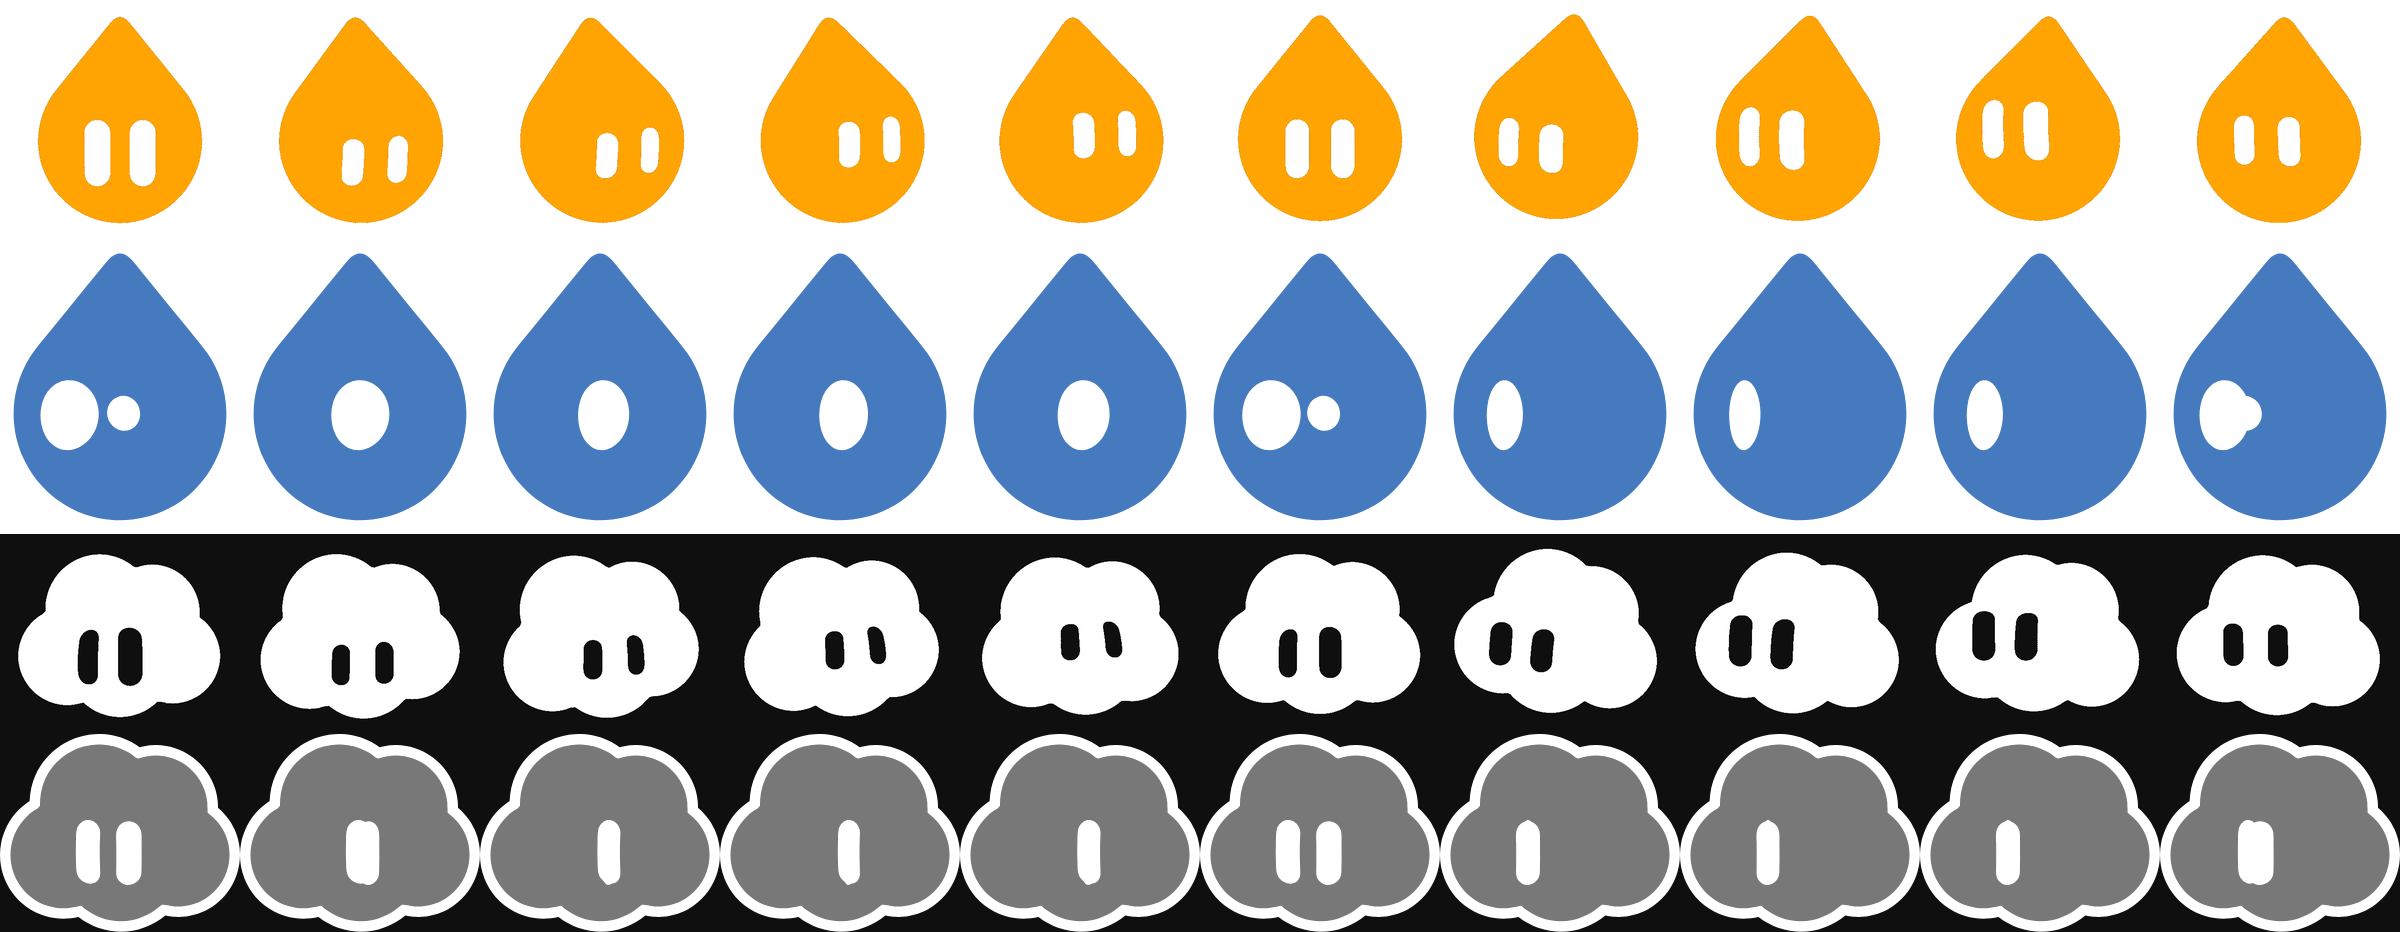
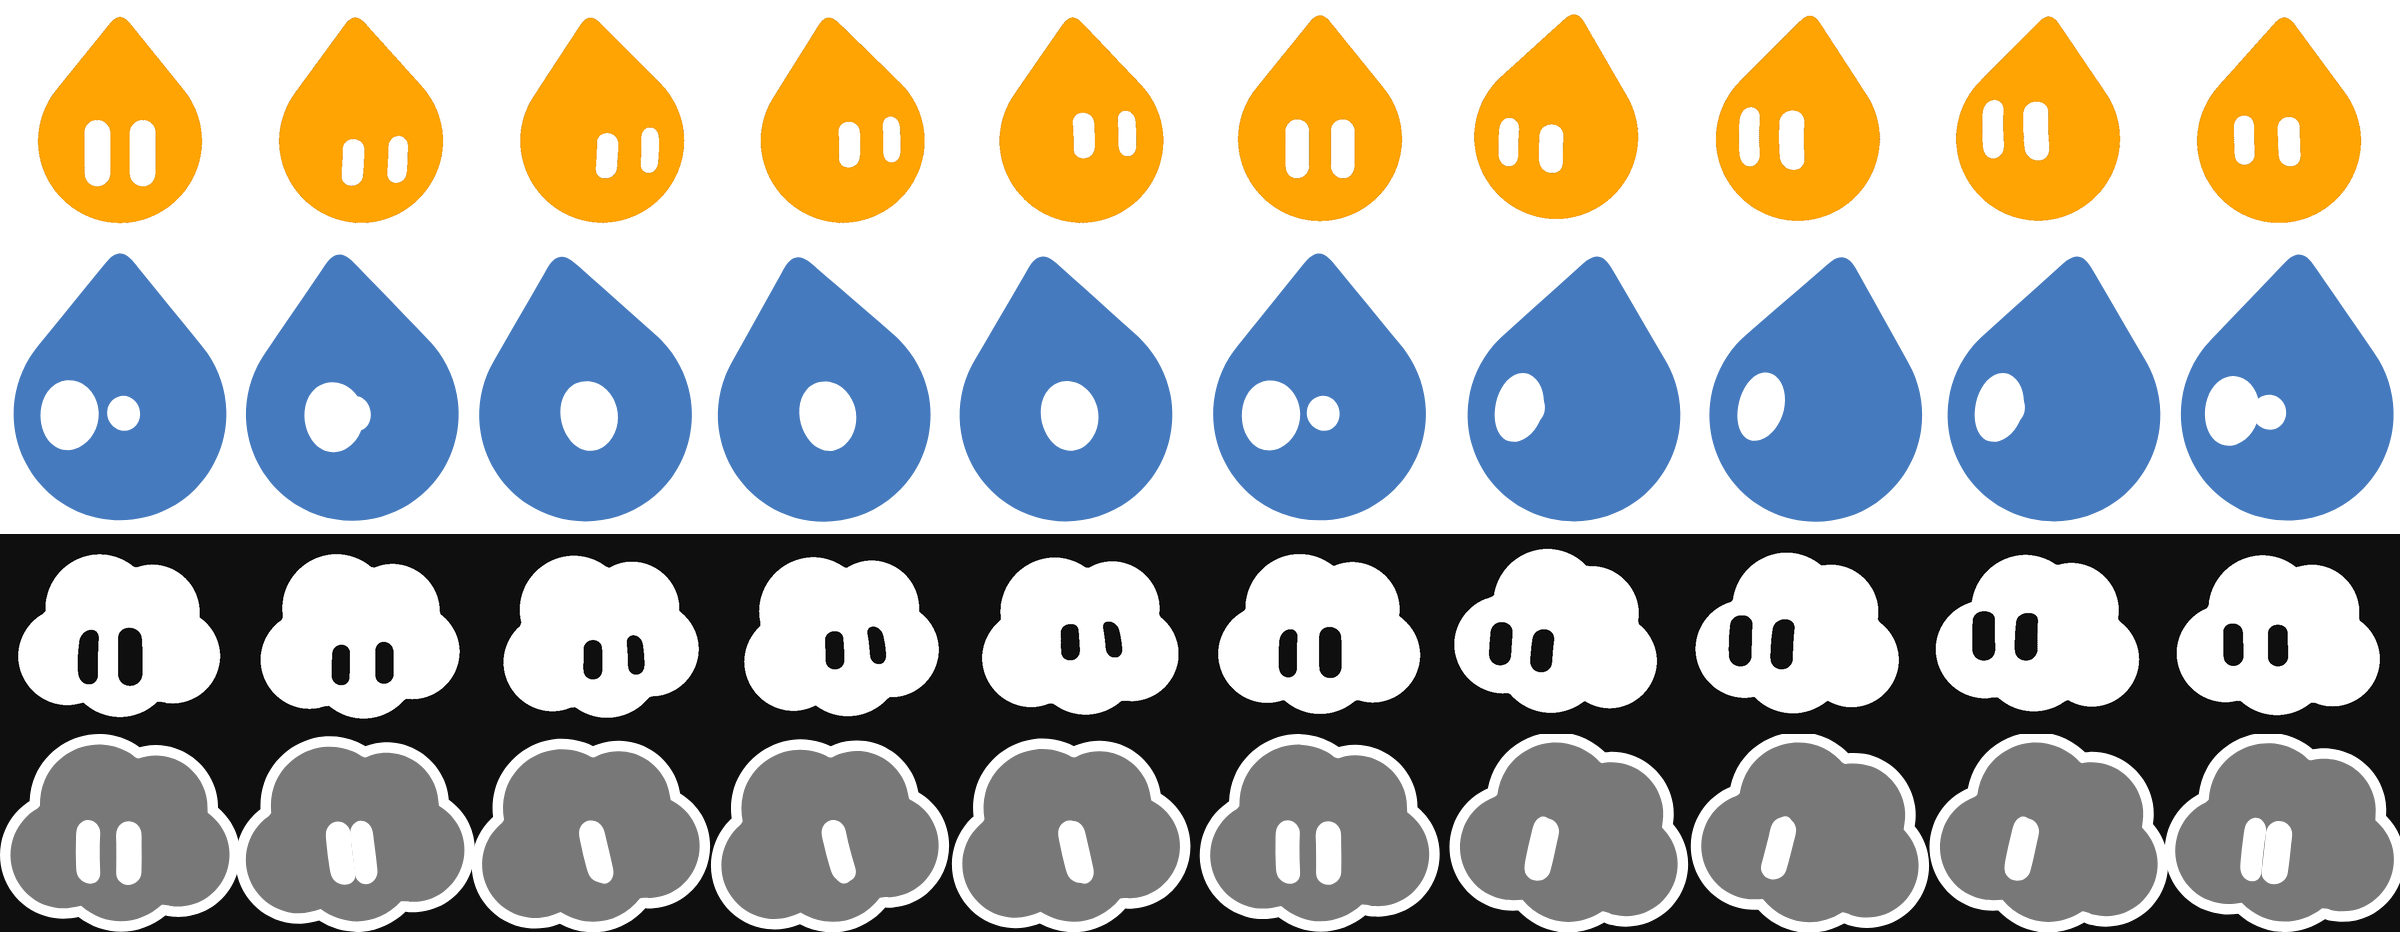
fix: retune look-around — subtle eyes, leaning silhouette
Reference shows a modest head shift: both eyes always visible, ~15% body
slide, slight far-eye narrowing — while the body clearly leans ~10deg and
bobs. Amplitude 0.55 read as turn-away (near eye vanished). Now: yaw
amplitude 0.35, silhouette leans up to ~12deg (yaw*0.5 rad, capped),
slight eye tilt, gentle bob. Turn-away unchanged. Sheets regenerated.

diff --git a/src/ui/TitleScreen.ts b/src/ui/TitleScreen.ts
@@ -152,14 +152,17 @@ export class TitleScreen {
       const pitch = neutral ? 0 : Math.sin(t * 0.83 + b.i) * 0.25;
       const lid = neutral ? 1 : lineupLid(t, b.i);
       const poses = yawEyeTransforms(b.art, yaw);
-      // Subtle body lean + squash tied to the turn.
-      b.body.style.transform = `translateX(${yaw * 3}%) rotate(${-yaw * 4}deg)`;
+      // Silhouette follows the look: ~10° lean (capped) + slight bob, like the
+      // reference strips — matches tickBot's in-game body motion.
+      const leanYaw = Math.max(-0.42, Math.min(0.42, yaw));
+      const bob = Math.sin(t * 1.31 + b.i * 1.7) * 1.2;
+      b.body.style.transform = `translateX(${yaw * 3}%) translateY(${bob}%) rotate(${-leanYaw * 28.6}deg)`;
       b.eyes.forEach((img, ei) => {
         const p = poses[ei]!;
         const dxPct = (p.dx / (b.art.eyes[ei]!.box[2] * (1 + EYE_PAD * 2))) * 100;
         const dyPct = (pitch * -b.art.eyeBox[3] * 0.15) / (b.art.eyes[ei]!.box[3] * (1 + EYE_PAD * 2)) * 100;
         img.style.opacity = p.visible ? '1' : '0';
-        img.style.transform = `translate(-50%,-50%) translate(${dxPct}%, ${dyPct}%) scale(${Math.max(0.02, p.sx)}, ${lid})`;
+        img.style.transform = `translate(-50%,-50%) translate(${dxPct}%, ${dyPct}%) scale(${Math.max(0.02, p.sx)}, ${lid}) rotate(${-yaw * 12.6}deg)`;
       });
     }
   }

diff --git a/src/render/characters.ts b/src/render/characters.ts
@@ -218,14 +218,19 @@ export function tickBot(node: THREE.Object3D, time: number, a: BotAnim = {}): vo
   ud.prevYaw = yaw;
   ud.prevYawT = time;
   if (!a.reducedMotion) {
-    inner.rotation.z = -yaw * 0.07;
+    // Silhouette follows the look: ~10° lean at the look-around extreme,
+    // capped so turn-away stays at a ~12° tilt. Plus a gentle idle bob.
+    const leanYaw = Math.max(-0.42, Math.min(0.42, yaw));
+    inner.rotation.z = -leanYaw * 0.5;
     inner.position.x = yaw * ((ud.leanRange as number | undefined) ?? 0.04);
+    inner.position.y = Math.sin(time * 1.31 + phase * 7) * ((ud.leanRange as number | undefined) ?? 0.04) * 0.35;
     const sq = Math.min(0.03, Math.abs(yawVel) * 0.02);
     sy *= 1 - sq;
     sx *= 1 + sq * 0.6;
   } else {
     inner.rotation.z = 0;
     inner.position.x = 0;
+    inner.position.y = 0;
   }
   inner.scale.set(sx, sy, 1);
 
@@ -284,6 +289,8 @@ export function tickBot(node: THREE.Object3D, time: number, a: BotAnim = {}): vo
       0.03
     );
     m.scale.set(Math.max(0.02, lidX * sxYaw), Math.max(0.08, lid), 1);
+    // Slight eye tilt following the head turn (dropped under reduced motion).
+    m.rotation.z = a.reducedMotion ? 0 : -yaw * 0.22;
   }
 }
 

diff --git a/tools/motion-sheet.html b/tools/motion-sheet.html
@@ -30,6 +30,11 @@
         ctx.save();
         ctx.translate(i * R, 0);
         ctx.scale(k, k);
+        // Body lean, pivoting near the bottom like tickBot's inner.rotation.z.
+        const leanYaw = Math.max(-0.42, Math.min(0.42, yaw));
+        ctx.translate(art.vbW / 2, art.vbH * 0.9);
+        ctx.rotate(-leanYaw * 0.5);
+        ctx.translate(-art.vbW / 2, -art.vbH * 0.9);
         paintBodyLayer(ctx, art);
         // Eyes: clip to the body silhouette so they slide off the edge.
         ctx.save();
@@ -43,6 +48,7 @@
           const cy = e.box[1] + e.box[3] / 2;
           ctx.save();
           ctx.translate(cx + p.dx, cy);
+          ctx.rotate(-yaw * 0.22);
           ctx.scale(Math.max(0.02, p.sx), 1);
           ctx.translate(-cx, -cy);
           ctx.fill(new Path2D(e.d));

diff --git a/src/render/botArt.ts b/src/render/botArt.ts
@@ -244,8 +244,9 @@ export function yawEyeTransforms(art: StickerArt, yaw: number): EyePose[] {
 }
 
 /** ~4.8 s eased look-around cycle — sin already dwells near the extremes.
- *  Amplitude ~0.55 keeps eyes visible the whole cycle, like the reference. */
-export function lookAroundYaw(t: number, phase: number, amplitude = 0.55): number {
+ *  Amplitude ~0.35 keeps both eyes fully visible the whole cycle, like the
+ *  reference (eyes slide ~15% of body width, far eye narrows only slightly). */
+export function lookAroundYaw(t: number, phase: number, amplitude = 0.35): number {
   return Math.sin(((t / 4.8 + phase) % 1) * Math.PI * 2) * amplitude;
 }
 
